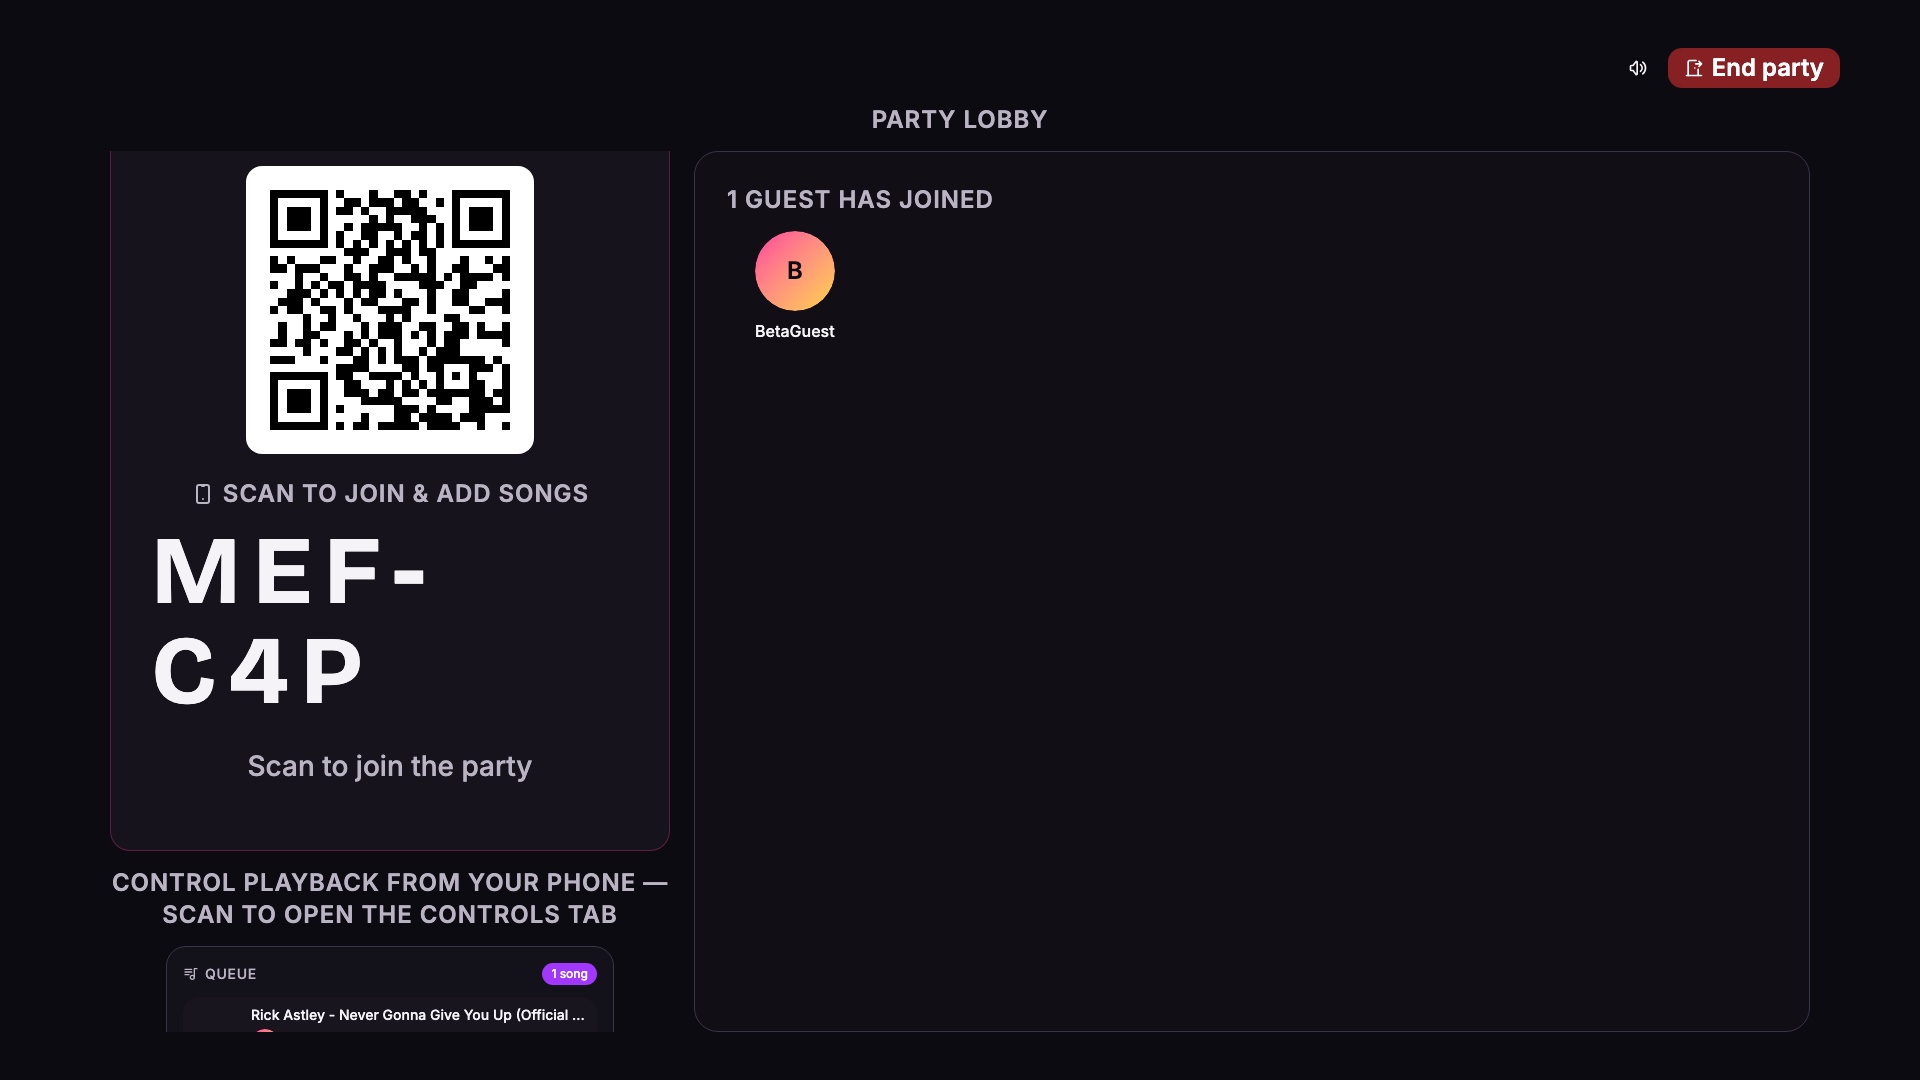
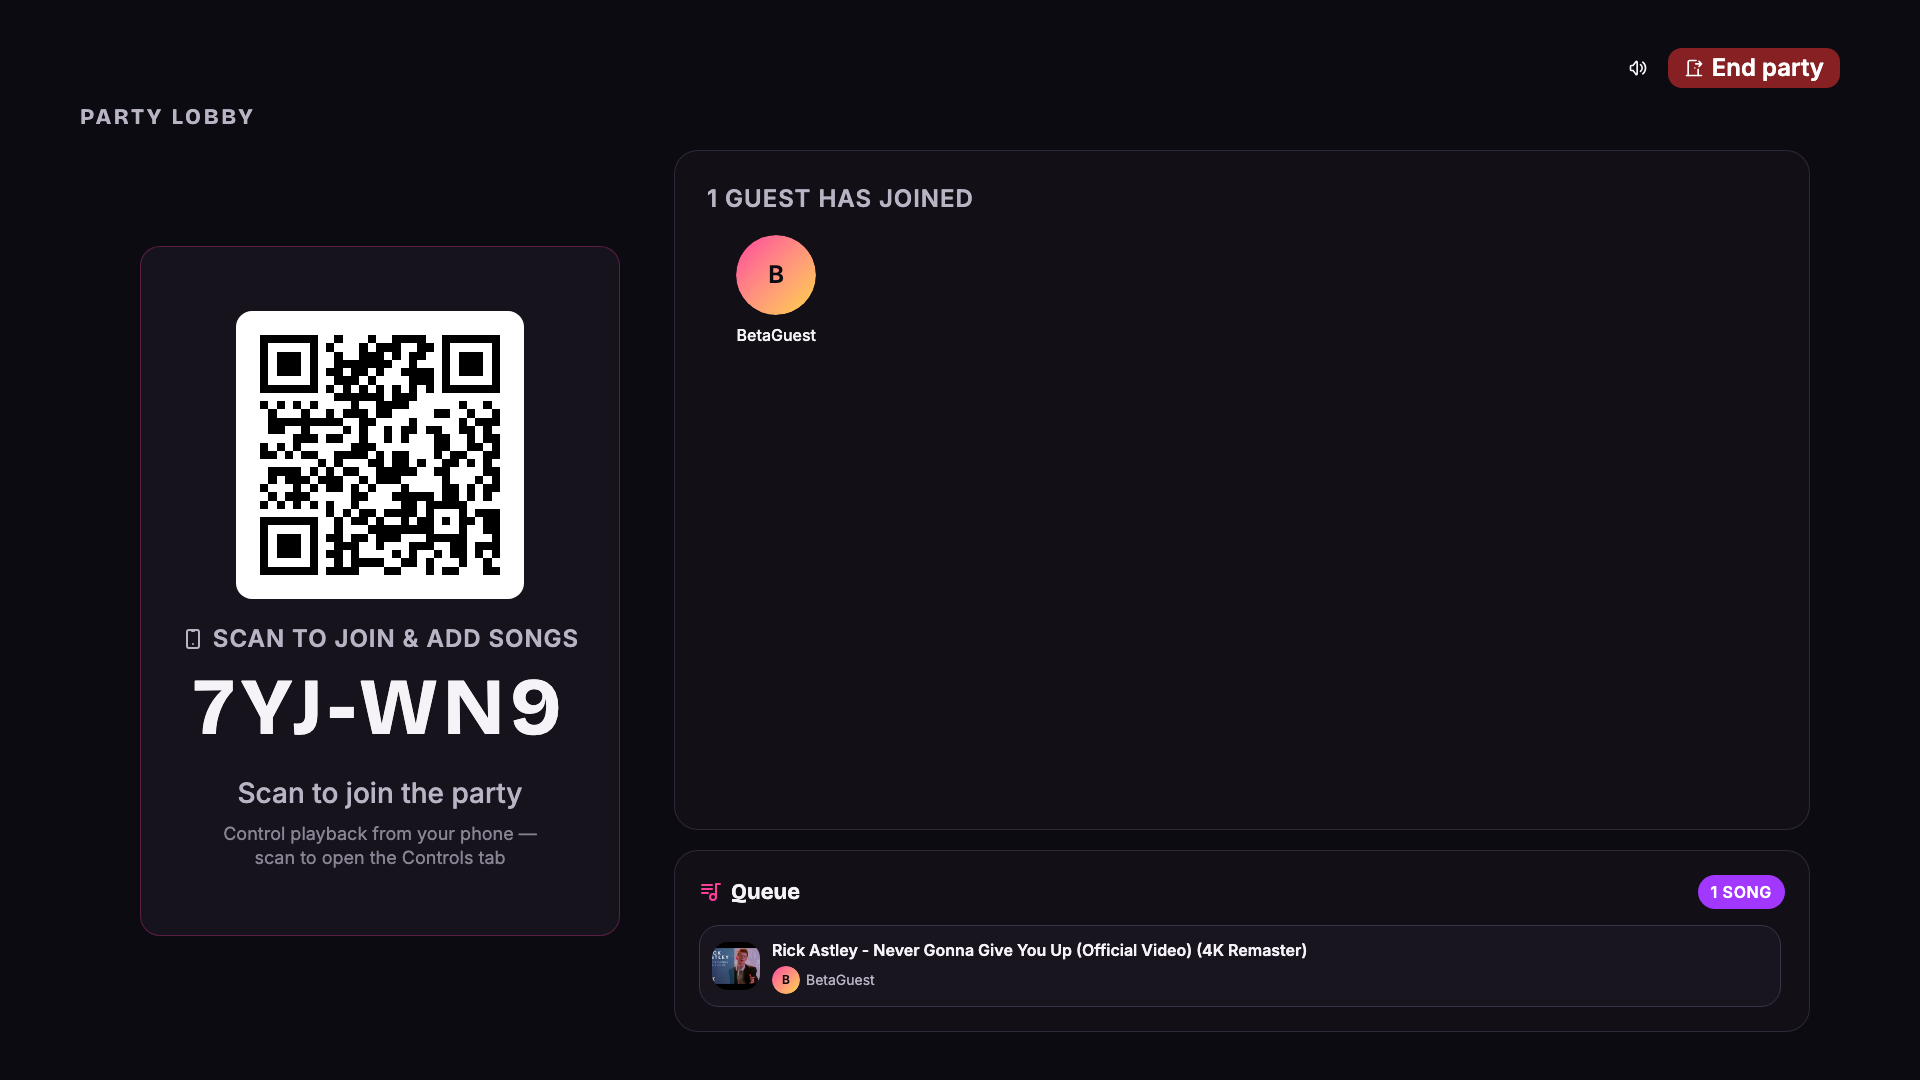
docs(brain): refresh tv-beta-polish screenshots post-layout-fix + verification addendum
Re-captures the five pre-fix screenshots at fa03819 and appends the re-walk
addendum: queue-row readability confirmed live (16px two-line titles, full
added-by names, 56px thumbnails), lobby alignment verified, zero regressions.

diff --git a/.brain/features/tv-beta-polish/verifications/2026-07-17.md b/.brain/features/tv-beta-polish/verifications/2026-07-17.md
@@ -55,3 +55,20 @@ No entries were suppressed or reclassified — the run was clean end-to-end once
 ## Verdict rationale
 
 All seven scoped beta-feedback items from `tv-beta-polish.md` were exercised against the live app and passed: the lobby is a genuine two-column, zero-scroll layout with a phone-hint and no TV play button; a guest join animates into the roster and a pasted link updates the live queue; the host's phone Controls tab is the only playback surface and pressing play flips the TV into the playing state; the playing state puts the video dominant on the left (title clamped to `tv-title`/36px, not the old 56px `tv-headline`) with a measured ~320px right rail and zero on-screen TV transport controls; the "you're up" overlay is measured fully opaque (`opacity: 1`, full-viewport bounding box) and holds for the documented ~5s window before its CSS exit completes; and a real 91-character video title clamps to exactly 2 lines without breaking the layout or introducing page scroll. No `jsErrors` or `networkErrors` were observed on any golden-path or edge-path step. Verdict: **PASS**.
+
+## Addendum — post-fix re-capture
+
+- **Date**: 2026-07-17 (same-day re-capture, after the original walk above)
+- **Commit**: `fa03819` — "fix(tv): lobby alignment + readable queue rows per beta screenshots" (landed on `feat/tv-beta-polish` after the original walk in this doc)
+- **Reason**: screenshots `01`/`02`/`03`/`05`/`07` were captured from the PRE-fix layout; `fa03819` changed the lobby room-code/heading/playback-hint placement, moved the lobby queue preview into the roster's right column, and widened the TV playing-rail queue rows (text-base 2-line clamp, visible added-by nickname, 56px thumbnails). This addendum re-verifies the same golden-path steps against the POST-fix app and refreshes the 5 affected screenshots (same step names — the brain's `shots add` overwrote the stale images in place; steps `02`/`04`/`06a-d`/`13` were untouched since their underlying UI didn't change in `fa03819`).
+- **Method**: same throwaway Playwright CLI script pattern as the original walk (`bun run tmp/verify-tv-beta-polish.ts`, chromium `--disable-extensions`, dev server started via `bun run dev` and stopped after), reusing this doc's recipe — sign-in, room creation, guest join, paste-add, host-phone Controls-tab play/skip — plus the two documented environment workarounds (cold-dev-server warm-up pass; `.fill()` hydration-race retry). Two additional real-app quirks surfaced and were worked around in the script only (not app code): (a) `SearchTab`'s paste form unmounts/resets every time a successful add flips the guest to the Queue tab, so each subsequent paste re-selects the Search tab and reopens paste mode; (b) the host, despite already having an authenticated + host session, still passes through the same nickname-entry gate as a guest on `/join/:code` before the Controls tab renders (`joined` state starts `null` regardless of `isHost`/`hasSession`).
+- **What was re-verified against the live post-fix app**:
+  - **01 — TV lobby, fresh room**: room code renders as a single line (`codeLines` computed = 1, no mid-code wrap), centered in the QR card; the playback hint (`room-lobby-playback-hint`) is small fine-print *inside* the QR card, not an orphaned banner; "Party lobby" (`room-lobby-heading`) is a page-level header top-left, above both columns; the empty roster state shows the bordered icon circle. Zero page scroll confirmed (`scrollHeight` 1080 ≤ `innerHeight` 1080).
+  - **02 — guest joined**: guest chip ("BetaGuest") renders on the right roster board, matching the original walk.
+  - **03 — queue updated in lobby**: after the guest pastes a song, the queue preview (`room-lobby-queue`) now sits in the RIGHT column, directly under the roster panel (`room-lobby-roster-panel`) — same left edge as the roster, and clearly right of the QR panel. Measured geometrically: queue's left edge equals the roster's left edge (674px, Δ<5px) and both sit right of the QR panel's right edge. Confirmed visually in the screenshot too.
+  - **05 — TV playing state, queue-row readability (the one live check the original fix never got)**: **PASS.** First queue row measured — title text `"PSY - GANGNAM STYLE(강남스타일) M/V"` fully readable (not truncated to "8…"), computed `font-size: 16px` (`text-base`) with `line-clamp: 2`; added-by nickname renders as the full `"BetaGuest"` (not truncated to "B."); thumbnail bounding box 56×56px. Visually confirmed in the screenshot: all three queue rows (PSY, Tom Jones Medley, 80s medley) show real, legible 2-line titles with full nicknames and real video thumbnails. Zero page scroll held (1080/1080).
+  - **07 — long title clamp**: re-added the actual 91-character real YouTube title used in the original walk ("80s BEST FEMALE LOVE SONG MEDLEY (Karaoke) All This Time, Lost In Your Eyes, Eternal Flame", video id `O2BSsYTSw5M`) and skipped to it; clamps to exactly 2 lines (`line-clamp: 2`, rendered height 82.8px ≈ 2× line-height 41.4px), no layout break, zero scroll. Screenshot captured only after the "you're up" overlay from the preceding skip fully cleared (waited for `room-now-up-overlay` to detach), so the image shows the actual clamped title rather than the announcement card.
+- **jsErrors**: none across all contexts (TV host, guest phone, host phone).
+- **networkErrors**: none.
+- **Regressions**: none found. All 5 re-captured states match the intended fix from `fa03819` with no new console errors or layout breaks.
+- **Verdict**: ✅ **PASS** — the `fa03819` layout fix is confirmed live: lobby alignment items (room code, playback hint, heading, queue placement) render as intended, and the previously-unverified TV playing-rail queue-row readability fix is now confirmed live (readable titles, visible nicknames, 56px thumbnails) with zero scroll and zero console errors.

diff --git a/.brain/features/tv-beta-polish/runs/2026-07-17-progress.md b/.brain/features/tv-beta-polish/runs/2026-07-17-progress.md
@@ -53,3 +53,9 @@ Screenshots: image-cache 2.png (lobby), 3.png (playing). Feature stays shipped; 
 ```
 typecheck exit 0; tests 424/424; lobby visual self-check PASS at 1920x1080 (scrollHeight 1080 == innerHeight), screenshot registered as 13-lobby-alignment-fix. Playing-state rows verified by code review only — live playing walk impractical in fixer scope.
 ```
+
+## Step 10 — Post-fix screenshot refresh (feature-verifier): 01/02/03/05/07 re-captured at fa03819, verification doc addendum appended
+
+```
+Queue-row readability PASS live: title 16px line-clamp-2 (was '8…'), added-by full 'BetaGuest' (was 'B.'), thumb 56x56. Lobby fix confirmed in all recaptures. Zero page scroll 1080/1080. jsErrors none, networkErrors none, regressions none.
+```
